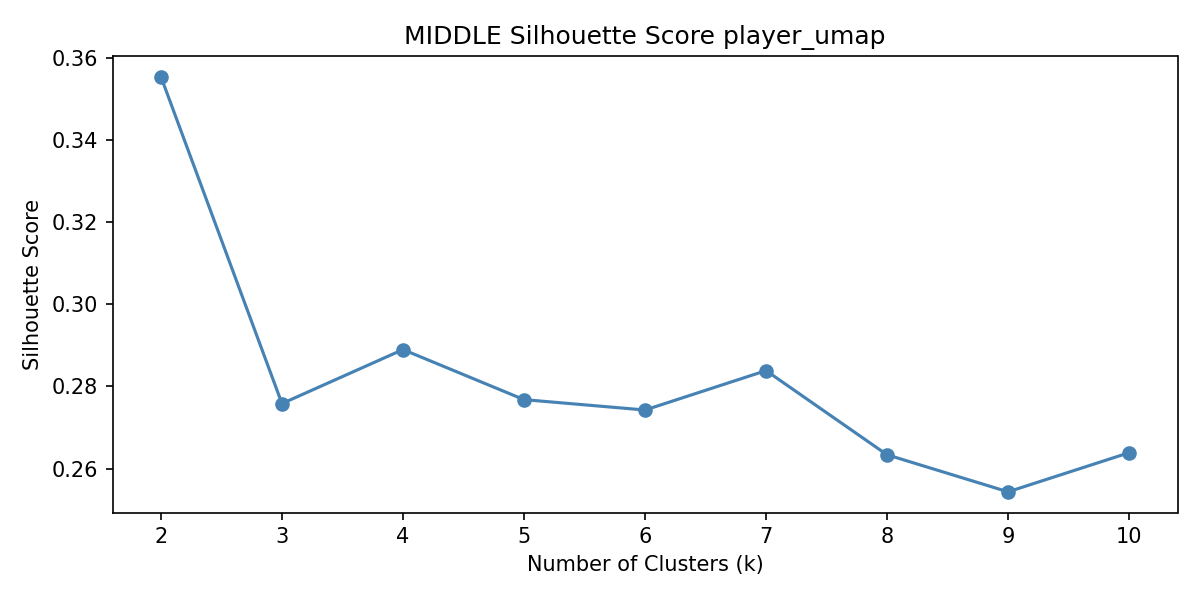
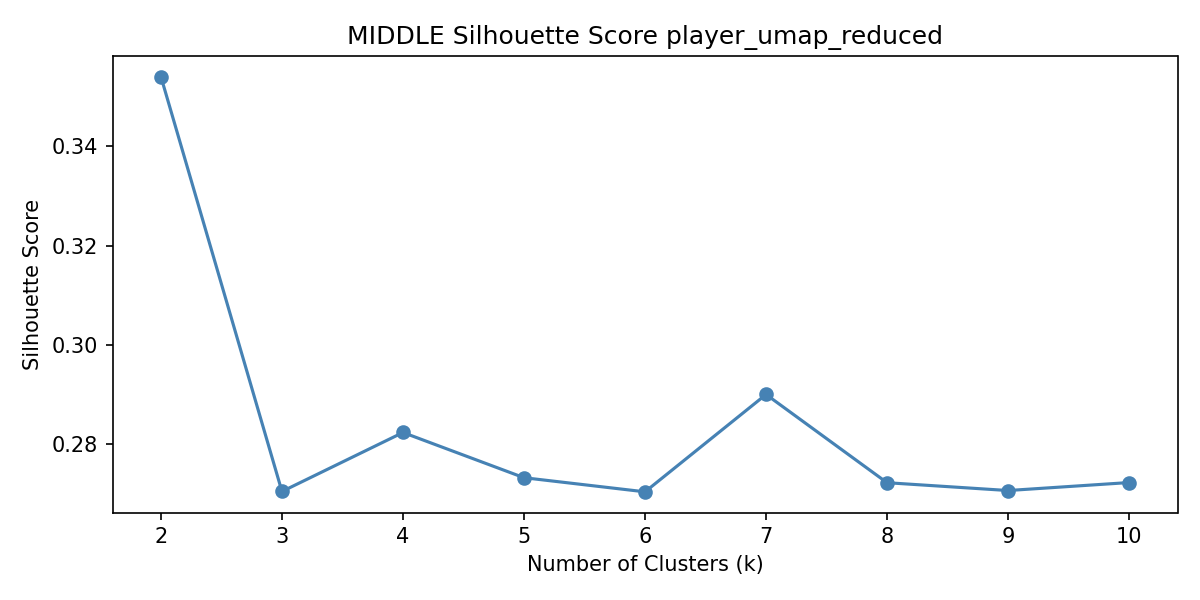
Regenerated silhouette scores using tuned umap embeddings

diff --git a/PythonScripts/timeline_processor.py b/PythonScripts/timeline_processor.py
@@ -482,13 +482,13 @@ class TimelineProcessor:
         execute_values(self.cur, query, tuples)
         self.conn.commit()
 
-    def calculate_optimal_k(self, table, feature_state):
+    def calculate_optimal_k(self, table):
         df = self.fetch_table(table)
 
         range_num_k = range(2, 11)
 
         for lane in df['lane'].unique():
-            if table == "player_pca" or table == "player_fa" or table == "player_umap":
+            if table == "player_pca" or table == "player_fa" or table == "player_umap_standard" or table == "player_umap_reduced":
                 lane_subset = df[df['lane'] == lane][['x', 'y', 'z']]
             else:
                 lane_subset = df[df['lane'] == lane][self.features]
@@ -508,7 +508,7 @@ class TimelineProcessor:
             plt.title(f"{lane} Silhouette Score {table}")
             plt.xticks(range(2, 11))
             plt.tight_layout()
-            plt.savefig(f"../figures/{lane}_{table}_{feature_state}.png", dpi=150)
+            plt.savefig(f"../figures/{lane}_{table}.png", dpi=150)
             plt.show()
 
     def tune_umap(self):
@@ -534,8 +534,4 @@ class TimelineProcessor:
 
 
 timelineProcessor = TimelineProcessor()
-#timelineProcessor.apply_umap("player_umap_standard")
-timelineProcessor.standardise()
-timelineProcessor.apply_umap("player_umap_standard")
-timelineProcessor.apply_hdbscan()
-#timelineProcessor.apply_umap("player_umap_standard")
+timelineProcessor.calculate_optimal_k("player_umap_reduced")
